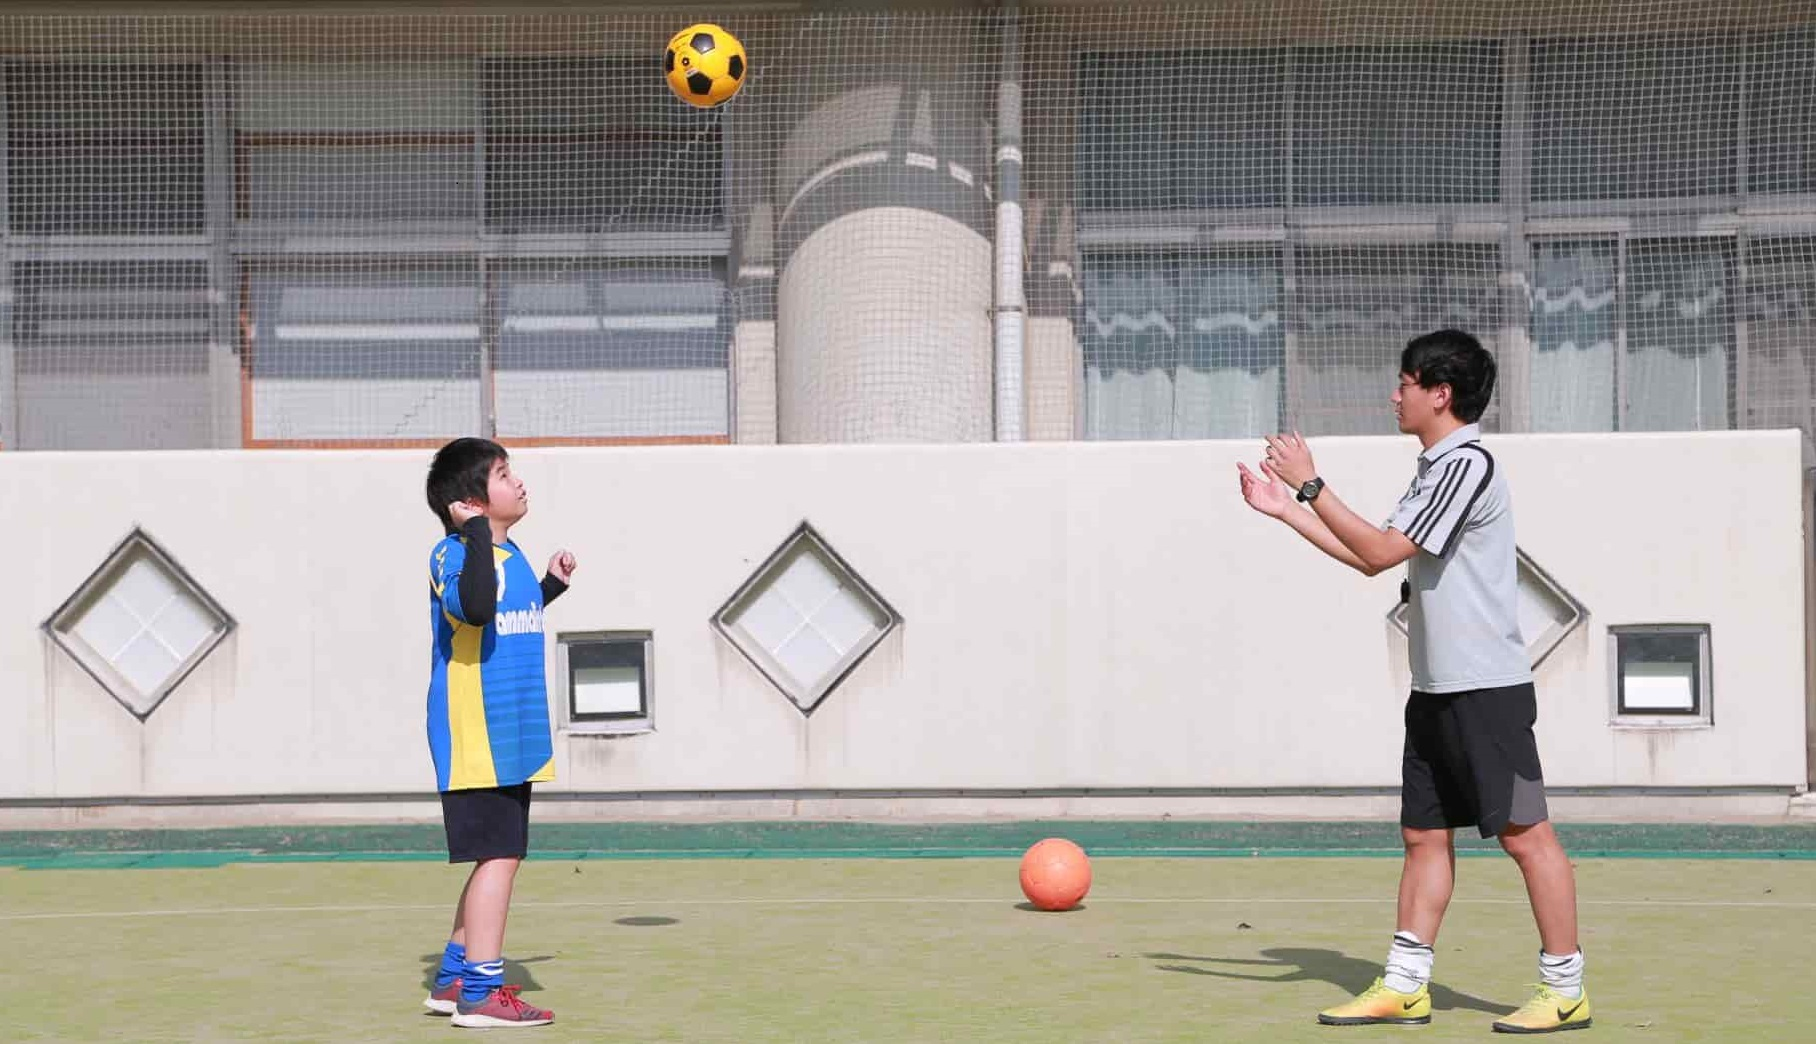
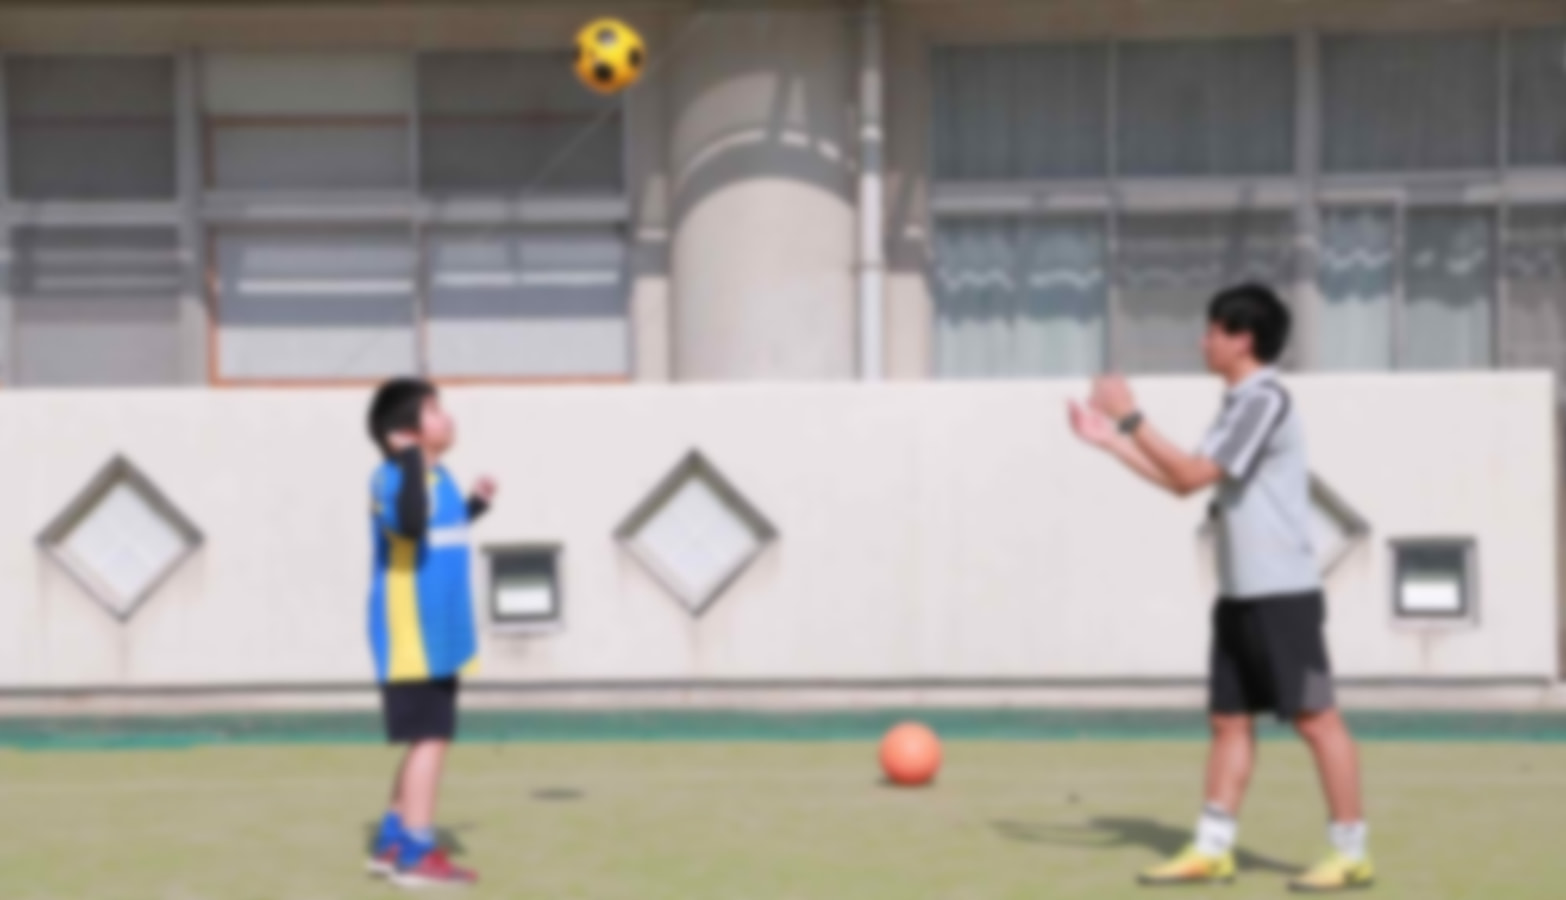
TOPのサムネイル変更

diff --git a/index.html b/index.html
@@ -45,7 +45,7 @@ j=d.createElement(s),dl=l!='dataLayer'?'&l='+l:'';j.async=true;j.src=
 							</div>
 							<p class="commonDetailBtn"><a href="https://pigeon-soccer.github.io/about/">団体を詳しく見る</a></p>
 						</div>
-						<figure class="summary__img"><img src="https://pigeon-soccer.github.io/common/images/index_top-im001_mini.jpg" alt=""/></figure>
+						<figure class="summary__img"><img src="https://pigeon-soccer.github.io/common/images/index_ph_002_thumbnail.jpg" alt=""/></figure>
 					</div>
 					<p class="commonDetailBtn__sp"><a href="https://pigeon-soccer.github.io/about/">団体を詳しく見る</a></p>
 				</section><!--/summary summary-about-->
@@ -59,7 +59,7 @@ j=d.createElement(s),dl=l!='dataLayer'?'&l='+l:'';j.async=true;j.src=
 							</div>
 							<p class="commonDetailBtn"><a href="https://pigeon-soccer.github.io/activity/">教室を詳しく見る</a></p>
 						</div>
-						<figure class="summary__img"><img src="https://pigeon-soccer.github.io/common/images/index_top-im002_mini.jpg" alt=""/></figure>
+						<figure class="summary__img"><img src="https://pigeon-soccer.github.io/common/images/activity_thumbnail.jpg" alt=""/></figure>
 					</div>
 					<p class="commonDetailBtn__sp"><a href="https://pigeon-soccer.github.io/activity/">教室を詳しく見る</a></p>
 				</section>

diff --git a/about/index.html b/about/index.html
@@ -73,8 +73,8 @@ j=d.createElement(s),dl=l!='dataLayer'?'&l='+l:'';j.async=true;j.src=
 				<section class="subSummary subSummary-connection">
 					<h3>３．偏見と諦め</h3>
 					<div class="paragraph">
-						<input id="paragraph-02" type="checkbox">
-						<label for="paragraph-02"></label>
+						<input id="paragraph-03" type="checkbox">
+						<label for="paragraph-03"></label>
 						<div class="paragraph-content">
 							<h4>「レッテル」</h4>
 							<p>人は一人では生きていくことはできません。しかし、大多数の健康な子どもたちは、障がいとは物理的にも心理的にも関わり合いのないところで過ごし、社会に出ていきます。それゆえこの社会は、障がいをもった人への無理解・偏見につながりやすい構造になっています。

diff --git a/common/css/main.css b/common/css/main.css
@@ -714,9 +714,6 @@ ul.convey dl.convey__content > dd{
     background-size: cover;
     height: 100%;
 }
-#activity .topImage__wrapper {
-	backdrop-filter: blur(5px);
-}
 
 /* ▽ activity - エピソード ▽ */
 .episode > dl{
